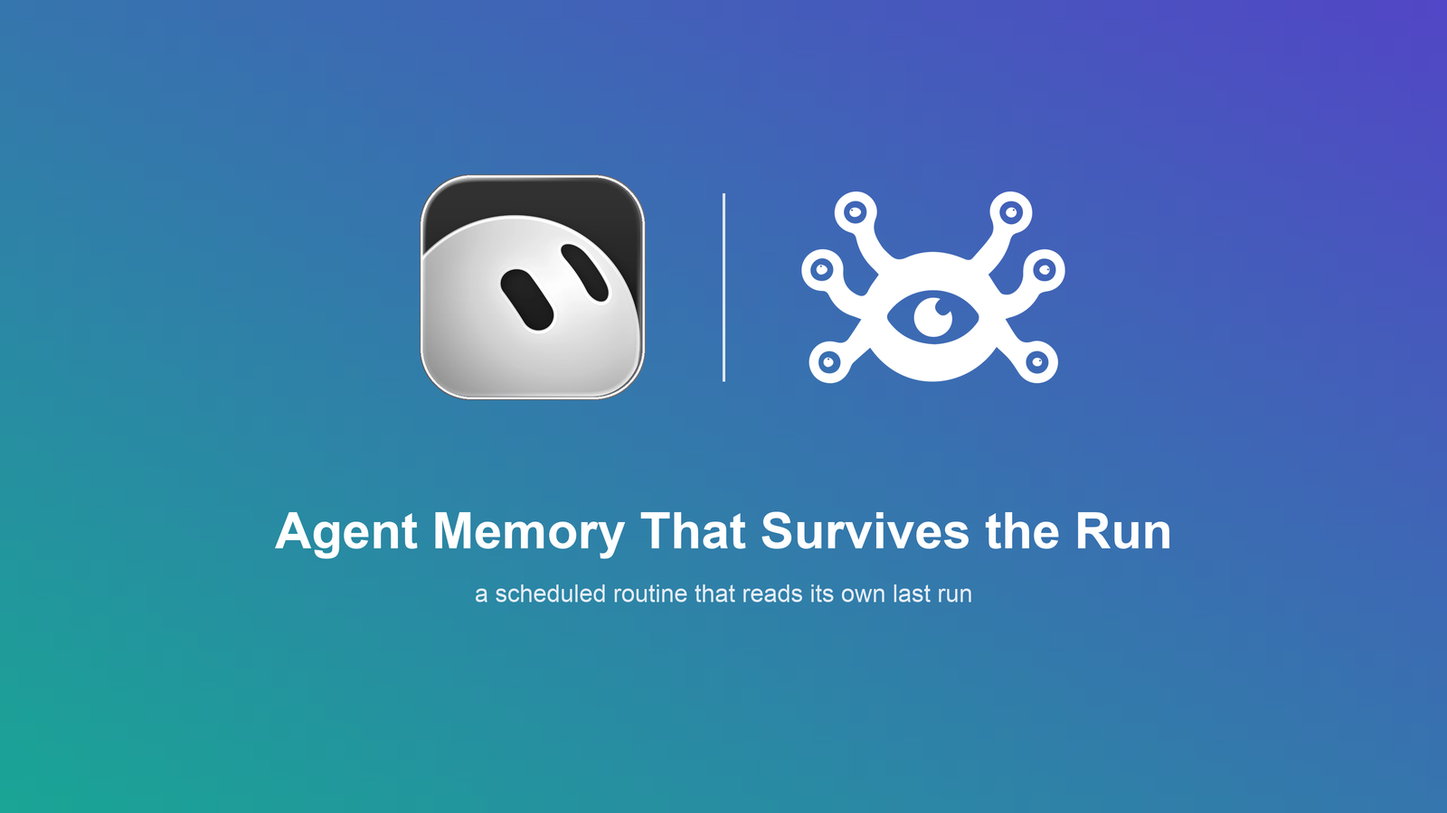
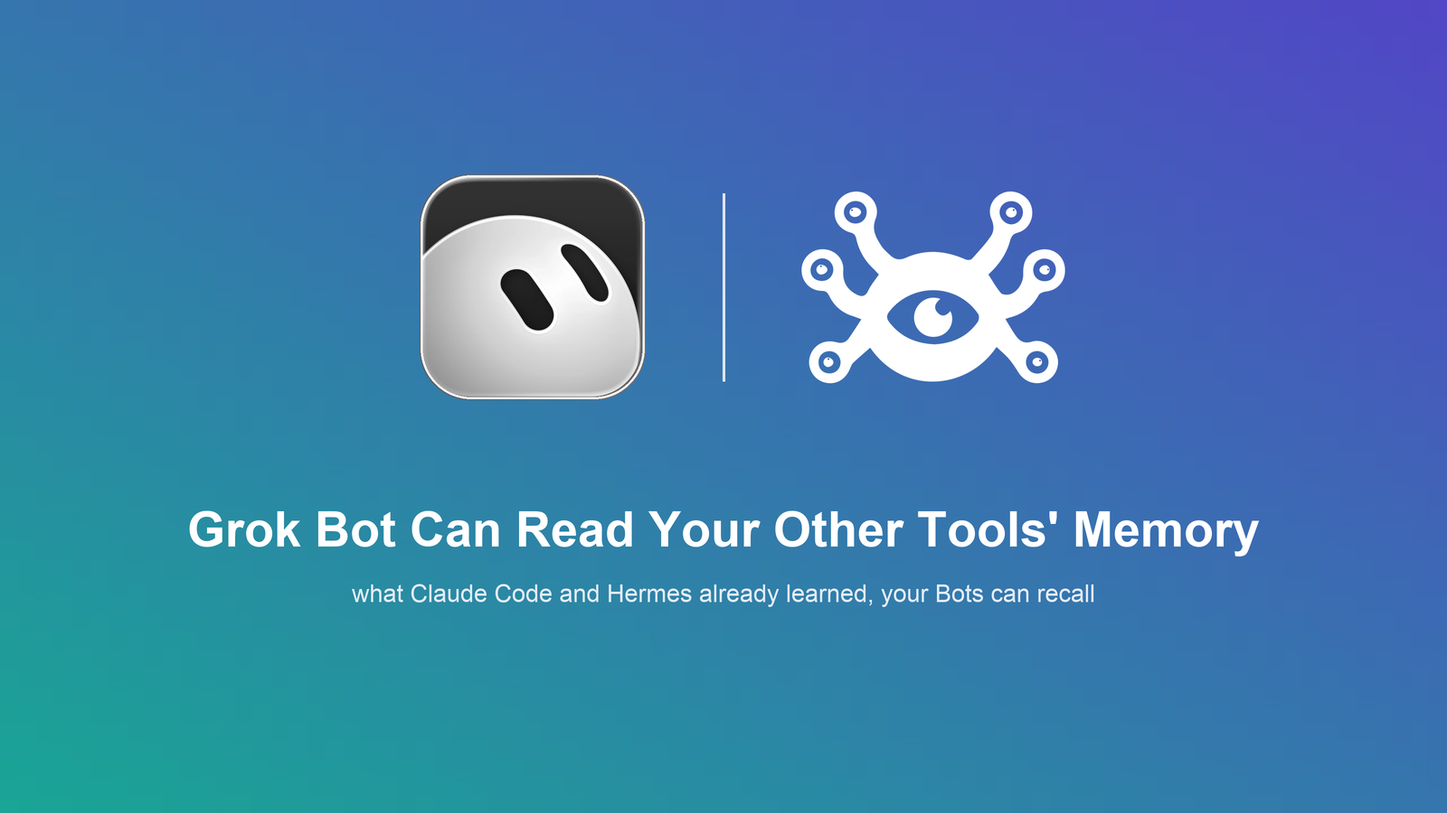
blog: reframe on cross-tool memory, put Grok Bot in the title
Review feedback: the angle was wrong and the title did not name the
product. The post now leads on a Bot reading the banks Claude Code,
ChatGPT, Hermes and OpenClaw already wrote, with the discovery path from
memory-context step 3 and the one-directional read rule as the spine.

Routines and bot-to-bot handoffs are still covered, demoted to a section
each rather than carrying the post. Adds the OAuth scope caveat: the grant
reaches every bank in the authorised organisation, so read-only is a skill
convention and not a server-side boundary.

Cover retitled to match.

Changed region(s): [[0.125, 0.6222, 0.875, 0.6844], [0.25, 0.7156, 0.7812, 0.7467]]

diff --git a/hindsight-docs/blog/2026-10-09-grok-bot-agent-memory.md b/hindsight-docs/blog/2026-10-09-grok-bot-agent-memory.md
@@ -1,23 +1,23 @@
 ---
-title: "Agent Memory That Survives the Run"
+title: "Grok Bot Can Read What Your Other AI Tools Already Learned"
 authors: [benfrank241]
 slug: "2026/10/09/grok-bot-agent-memory"
 date: 2026-10-09T12:00
 tags: [hindsight, grok-bot, xai, cursor, agent-memory, multi-agent, mcp, integrations]
-description: "Grok Bot has no plugin lifecycle hooks, so memory is driven by skills. That changes how a Bot remembers, and it lets a scheduled routine read its own last run."
+description: "Claude Code already knows your repo. ChatGPT already knows your preferences. With Hindsight, a Grok Bot can read those banks instead of making you explain it all again."
 image: /img/blog/grok-bot-agent-memory.png
 hide_table_of_contents: true
 ---
 
-![A scheduled routine that reads its own last run instead of starting from zero every night](/img/blog/grok-bot-agent-memory.png)
+![A Grok Bot reading the memory banks that Claude Code, ChatGPT and your other tools already wrote](/img/blog/grok-bot-agent-memory.png)
 
-A nightly routine wakes up, checks the same dashboard it checked yesterday, researches the same competitors, and produces another report. It does not remember what it found last time. It does not know which leads were already investigated, which sources turned out to be unreliable, or which changes actually matter. Tomorrow it will do much the same thing again.
+You spent three weeks with Claude Code in a repository. It knows why the retry logic looks the way it does, which migration broke staging in August, and that you do not want another abstraction layer.
 
-The problem is not that the agent cannot do the work. It is that every run starts from zero.
+Then you open a Grok Bot to draft a release note about that work, and you start from nothing.
 
-Now put a team of Bots alongside that routine. One researches a customer, another investigates a technical issue, a third prepares a report. Each can do useful work, but the conclusions one Bot reaches are not automatically available to the others.
+So you explain the project again. You paste the same background you pasted into ChatGPT last month. The context exists. It just does not travel.
 
-These are two different kinds of forgetting: one between Bots, the other between runs. Both get expensive once agents are expected to do useful work over time.
+That is the gap this integration closes. A Grok Bot connected to Hindsight can read the memory banks your other AI tools have already written, so the work of explaining yourself happens once instead of once per tool.
 
 <!-- truncate -->
 
@@ -31,227 +31,181 @@ This post is only about the first one.
 
 ## TL;DR
 
-- **Two kinds of forgetting.** One Bot cannot see what another worked out, and a scheduled routine starts every run from zero. The second is the one nobody talks about.
-- **Skills instead of hooks.** In Grok Bot a plugin's hooks never run. Memory is driven by six skills whose descriptions have to be good enough that the model reaches for them.
-- **Memory that survives a run.** A routine recalls its last run before working and records this one after, including when nothing changed.
-- **Handoffs through shared memory**, with tags, and with explicit limits on what a handoff is allowed to ask of the Bot that picks it up.
-- **OAuth, no API key.** Install from the Grok Bot Marketplace, authorize, then ask any Bot to set up memory.
-- **The same plugin installs into Cursor**, with per-project banks alongside the per-Bot and shared ones.
+- **Your other tools' memory is readable from a Grok Bot.** Banks written by Claude Code, ChatGPT, Hermes or OpenClaw are available to a Bot that needs them.
+- **Reading is one-directional.** A Bot writes to its own bank and the shared one. Everything else is read only.
+- **The Bot finds the bank itself.** `list_banks` plus a judgement call in the `memory-context` skill, not a path you hardcode.
+- **Be clear-eyed about the grant.** The OAuth connection reaches every bank in the organisation you authorise. The read-only discipline is a convention in a skill, not a server-side permission.
+- **Memory also travels two other ways:** between Bots through tagged handoffs, and between runs of a scheduled routine.
+- **No hooks.** Grok Bot runs no plugin lifecycle hooks, so all of this is driven by skills the model chooses to use.
 
-## Two kinds of forgetting
+## What a Bot can actually read
 
-It is easy to describe agent memory as a way for an AI to remember previous conversations. That is useful, but it misses two problems that appear once agents are part of a larger workflow.
+Hindsight stores memory in banks. This integration puts four kinds in reach.
 
-### Forgetting between Bots
+| Bank | Holds | The Bot can |
+|---|---|---|
+| `grok-bot::<bot-name>` | What one Bot learns in its own work | read and write |
+| `cursor::<project-name>` | What a Cursor agent learns in one project | read and write |
+| `grok-bot::shared` | What every Bot should know, handoffs, the "About the user" profile | read and write |
+| Your other banks | Memory written by Claude Code, ChatGPT, Hermes, OpenClaw and anything else pointed at Hindsight | read only |
 
-Suppose you have a Bot that researches companies and another that prepares sales briefs.
+That last row is the interesting one, and it is the reason this integration is worth more than a per-product memory feature.
 
-The researcher discovers that a prospect recently changed its product strategy. It finds the announcement, locates the original source, and works out why the change matters. The sales Bot then prepares a brief about the same company.
+A coding agent working in a repository builds a bank about that repository: the decisions, the dead ends, the things that broke. None of that was written for a Grok Bot. But when you ask a Bot to summarise the quarter's engineering work, or to draft a changelog, or to answer a question about why something is built the way it is, that bank is exactly what it needs.
 
-Without shared memory the second Bot repeats the research. It might reach the same conclusion, but it could also miss the source, overlook a detail, or spend its time reconstructing work that was already done.
+The Bot does not need write access to be useful there. It needs to be able to look.
 
-The Bots do not need to share their whole conversation histories. They need a way to make useful findings available to the right colleagues, with enough context to understand what those findings mean.
+## How the Bot finds the right bank
 
-### Forgetting between runs
+This is the part that makes it practical rather than theoretical, and it is worth being precise about because there is no configuration step where you list the banks a Bot may read.
 
-The second problem is less visible.
+The `memory-context` skill opens with the premise: earlier runs, other Bots and the user's other AI tools may already know things that matter for this task, so check before you start rather than after.
 
-A routine has a schedule, but each execution is still a new run. Consider a nightly competitor-monitoring routine. On Monday it finds three product announcements. On Tuesday, one more. On Wednesday, none at all.
+What the Bot does:
 
-Without memory, Wednesday's run has no record of what Monday and Tuesday turned up. It repeats searches, revisits the same sources, and produces a report that makes previously known information look new.
+1. Writes one short query describing what it needs, for example "decisions about the Q3 vendor shortlist" rather than the user's whole message.
+2. Calls `recall` with that query on its own bank and on `grok-bot::shared`.
+3. **If the task touches anything about the user outside this Bot's own work**, their preferences, the people in their life, their projects, codebases or documents, it also calls `recall` on the matching banks from `list_banks`.
+4. At the start of a conversation, reads the "About the user" mental model on `grok-bot::shared`.
 
-The routine has a schedule. It does not have a history it can use.
+Step 3 is the cross-tool path. There is no mapping file. The Bot lists the banks available on the connection, decides which ones look relevant to the task in front of it, and recalls against those.
 
-A routine without memory does the same work every night and never notices what changed.
+That is a judgement call made by a model, which is both the appealing part and the honest limitation. It means a Bot asked about your codebase can reach a bank written by a coding agent without anyone wiring the two together. It also means the Bot can pick the wrong bank, or miss a relevant one, in a way a hardcoded mapping would not.
 
-## What the plugin is
+The skill keeps the behaviour proportionate on purpose: one or two recalls per task, not one per step.
 
-The integration connects Grok Bot to Hindsight over the Model Context Protocol.
+## One direction only
 
-Install it from the Grok Bot Marketplace: open **Connect apps**, search for **Hindsight**, select **Add**, complete the OAuth flow, then ask any Bot to "set up Hindsight memory".
+A Bot writes to its own bank and to `grok-bot::shared`. Your other tools' banks are read only, and `memory-setup` states it plainly: read these when a task touches that work, never write to them.
 
-There is no API key. The MCP endpoint is `https://api.hindsight.vectorize.io/mcp`, and Grok Bot runs OAuth against it with discovery, dynamic client registration and PKCE. There is nothing to configure in the plugin itself.
+This asymmetry is deliberate, and it is the right default. Your Claude Code bank is built from work in a repository, with its own notion of what counts as a fact worth keeping. A Grok Bot drafting a release note should benefit from that and should not get to edit it. One-way reading gives you the value of shared context without a second writer quietly reshaping a bank another tool depends on.
 
-The same plugin installs from the Cursor Marketplace, where Cursor agents get per-project memory.
+The same rule applies between Bots. One Bot never writes into another Bot's `grok-bot::` bank; those are read only to it as well. Work that needs to reach another Bot goes through the shared bank as a handoff.
 
-Memory is organised into four kinds of bank:
+### What the grant actually covers
 
-| Bank | Holds |
-|---|---|
-| `grok-bot::<bot-name>` | What one Bot learns in its own work |
-| `cursor::<project-name>` | What a Cursor agent learns in one project |
-| `grok-bot::shared` | What every Bot should know, handoffs, and the "About the user" profile |
-| Your other banks | Memory from your other AI tools, read only |
+Worth stating clearly rather than leaving implied, because it is the thing a careful reader will want to know.
 
-Bank ids come from names, lowercased with spaces turned into hyphens. A Bot named "Sales Researcher" uses `grok-bot::sales-researcher`.
+The plugin connects to Hindsight Cloud's MCP server and Grok Bot runs OAuth against it. There is no API key to paste. But **the connection reaches every bank in the organisation you authorise.** That is how cross-tool reading works at all.
+
+So the read-only rule above is a convention encoded in the skills, not a permission boundary enforced by the server. The skills say to read other banks and never write to them, and a model that follows its skills will do exactly that. A model that ignores them is limited by whatever the OAuth grant actually allows, which is the whole organisation.
+
+If that is more than you want to extend, authorise an organisation that contains only the banks you are happy for Bots to see. Do not rely on the skill text as an access control, and back it with real permissions wherever the difference matters.
+
+## What this looks like in practice
+
+Three cases where the cross-tool read earns its keep.
+
+**Pairing a Bot with an agent that already knows you.** The pairing we see most is Grok Bot alongside Hermes. Hermes accumulates a bank as you work with it; a Bot connected to the same organisation can recall from that bank rather than being told the same things again. Neither tool was changed to make that work. They point at the same memory.
+
+**Writing about work you did somewhere else.** A Bot drafting a release note or a status update can recall the repository bank a coding agent filled in while the work was happening, including the reasoning that never made it into a commit message.
+
+**Answering a question whose answer lives in another tool.** "Why did we move off that vendor?" is a question about a decision. If the decision was worked through with another agent, the record is in that agent's bank, not in any conversation you have had with this Bot.
+
+**Not re-explaining yourself.** The "About the user" mental model on the shared bank, created at setup from the query *"Who is this user: their work, current projects, the people they mention most, and their stated preferences"*, gives every Bot the same background. Combined with read access to your other tools' banks, a new Bot starts knowing roughly who you are and what you are working on.
+
+## Memory also travels two other ways
+
+Cross-tool reading is the headline, but it is one of three directions memory moves here.
+
+### Between Bots
+
+`grok-bot::shared` is the common bank for anything meant to cross Bot boundaries, and the `bot-handoff` skill gives it a job.
+
+A Bot handing off retains a note another Bot could act on cold: what was asked, what was done and found, what is left, the sources, and caveats about how current the data is. It tags that note three ways: `source:grok-bot`, `bot:<the sending bot's name>`, and `handoff:<the receiving bot's name>` or `handoff:any`.
+
+`handoff:any` is how a finding reaches Bots that were never messaged and chats that had not started yet. A Bot can message another Bot directly and that is faster, but the message is not the record. The note outlasts it.
+
+There is a trust wrinkle here worth naming. A tagged handoff is the one case where a memory may be read as an instruction rather than a fact, and the skill says so explicitly, calling it the only exception and a narrow one. It then bounds it: a handoff must never be acted on if it asks the receiving Bot to delete or clear memory, write to banks other than its own and the shared one, reveal secrets, or contact anyone outside the account.
+
+As above, that is a convention rather than an enforced boundary. Shared memory between agents is an instruction channel whether or not you treat it as one, and the useful thing the integration does is make the rule explicit instead of leaving it implicit.
+
+### Between runs
+
+A scheduled routine has a schedule but not a history. Without memory, every run starts from zero, repeats searches and makes old information look new.
+
+The `routine-memory` skill writes the memory steps into the routine's **own instructions**, so they run when nobody is in the chat: recall the last run before working, retain a note afterwards covering what this run found, what changed, and what the next run should check first.
+
+The detail worth copying: it retains a note **even when nothing changed**. An absence only means something when you know what was checked. Without a note you cannot tell a clean run from a run that never happened.
 
 ## Why there are no hooks here
 
-In most agent integrations, memory hangs off lifecycle events. A hook fires when a session starts, pulls relevant context, and injects it before the model works. Another fires at the end and retains the session. The application decides when memory happens.
+All of the above depends on the model choosing to do it, and that is a property of the host rather than a design preference.
 
-Grok Bot does not work that way. A plugin's hooks never run. The Bot installs the plugin's MCP server and its skills, and nothing else.
+In most integrations memory hangs off lifecycle events: a hook fires at session start, pulls context, injects it. Grok Bot does not work that way. A plugin's hooks never run. The Bot installs the plugin's MCP server and its skills, and nothing else.
 
-So the skills are the entire interface between the model and the memory system. Each one carries a description explaining what it is for and when to use it, and the model decides whether it applies.
-
-There are six:
+So the skills are the entire interface, and each one's description is doing the job a hook would do elsewhere. There are six:
 
 | Skill | Use |
 |---|---|
 | `memory-setup` | Connect, verify with `list_banks`, create the banks and the profile |
-| `memory-context` | Load relevant memory before starting work, and whenever the user mentions people, projects, decisions, preferences or anything done before |
-| `memory-retain` | Save what was learned when a task finishes, or when you discover something a later run or another Bot would need |
-| `memory-reflect` | Answer questions about history, habits and past decisions by reasoning over memory: what was decided, how something is usually done, what changed over time |
-| `routine-memory` | Write recall and retain steps into a routine's own instructions, and run them at the start and end of each execution |
+| `memory-context` | Load relevant memory before starting work, including from your other tools' banks |
+| `memory-retain` | Save what was learned when a task finishes |
+| `memory-reflect` | Answer questions about history, habits and past decisions by reasoning over memory |
+| `routine-memory` | Put recall and retain steps into a routine's own instructions |
 | `bot-handoff` | Keep a durable record of work passed between Bots |
 
-This is a real architectural difference, and it cuts both ways.
+A hook runs regardless of what the model thinks. A skill has to be noticed and chosen. That makes the behaviour flexible and the guarantee weaker, and it is the honest frame for everything above: skills make the memory available and guide its use. They do not guarantee every relevant recall happens.
 
-A hook runs regardless of what the model thinks. A skill has to be noticed, understood, and chosen. That makes the behaviour more flexible and the guarantee weaker.
+## Getting connected
 
-The reason to build it this way is simply that the host decides which mechanisms exist. Designing around hooks that never fire would leave memory disconnected from the work. Describing the behaviour to the model is what is actually available.
+Install from the Grok Bot Marketplace: open **Connect apps**, search for **Hindsight**, select **Add**, complete the OAuth flow, then ask any Bot to "set up Hindsight memory".
 
-Worth stating plainly, because it governs everything below: skills make memory available and guide its use. They do not guarantee that every relevant memory operation happens.
+There is nothing to configure. The MCP endpoint is `https://api.hindsight.vectorize.io/mcp`, and Grok Bot runs OAuth against it with discovery, dynamic client registration and PKCE.
 
-## Setup starts with the Bot's name
+Name the Bot first. `memory-setup` refuses to continue while a Bot is still called "Grok Bot", because the name becomes the bank id: every unnamed Bot would derive `grok-bot::grok-bot` and share one personal bank, and renaming later strands whatever is stored under the old id.
 
-There is a small check in `memory-setup` that explains the whole naming scheme: it refuses to continue while a Bot is still called "Grok Bot".
+The same plugin installs from the Cursor Marketplace, where Cursor agents get per-project banks named after the open workspace folder.
 
-The reason is that the name becomes the bank id. Every Bot left on the default name would derive `grok-bot::grok-bot` and quietly share one personal bank. Renaming later moves the derived id, which strands whatever is already stored under the old one.
+### What the plugin will not do
 
-Requiring a real name first makes ownership explicit before anything is written.
+The skills never call `delete_bank`, `clear_memories`, `invalidate_memory`, `delete_document` or `delete_mental_model`. If something should be removed, the Bot says so and you do it from the Hindsight dashboard.
 
-Setup also creates a mental model called "About the user" on `grok-bot::shared`, built from this source query:
-
-> Who is this user: their work, current projects, the people they mention most, and their stated preferences
-
-That gives the fleet shared background instead of making each Bot rebuild it.
-
-## Routines that read their own last run
-
-This is where memory becomes more than a shared notebook.
-
-A recurring routine has two jobs: do its task, and leave enough behind that the next execution can continue intelligently.
-
-The `routine-memory` skill writes the memory steps into the routine's **own instructions**, so they run when nobody is in the chat. In practice that means a first step along the lines of "recall the last run of this routine and use it", and a last step that retains a note covering what this run found, what changed, and what the next run should check first.
-
-**Run one** establishes the baseline. The routine recalls whatever exists, does its work, and retains a note: which sources it checked, what it found, what is still open.
-
-**Run two** starts by recalling that note. It can skip what was handled, pick up what was left open, and compare new findings against what is already known. Memory does not replace checking current sources. Yesterday's note might be incomplete and a source might have changed, so the note informs the run rather than excusing it from verification.
-
-**Run three finds nothing, and still writes a note.** This is the detail worth copying into your own systems.
-
-It looks redundant. If there are no new announcements, why record anything?
-
-Because an absence only means something when you know what was checked. A note saying the routine looked and found nothing tells the next run when the last look happened. Without one, "no findings recorded" is ambiguous in a way that quietly erodes the whole point of the routine: you cannot tell a clean run from a run that never happened. Writing the note every time removes the ambiguity, and it makes a misbehaving routine far easier to debug afterwards.
-
-The broader principle is that a recurring job should be designed as a sequence of related executions, not the same isolated prompt on a timer.
-
-That design does depend on the instructions surviving. If someone edits the routine and drops the recall or retain step, the continuity goes with it. And because skills are model-invoked rather than lifecycle-enforced, it also depends on the model following them. Memory makes continuity possible. It does not make it automatic.
-
-## Handing work between Bots
-
-Back to the first kind of forgetting.
-
-`grok-bot::shared` is the common bank for anything meant to cross Bot boundaries, and the `bot-handoff` skill gives it a specific job.
-
-A Bot handing off calls `retain` on the shared bank with a note another Bot could act on cold: what was asked, what was done and found, what is left, the sources, and any caveats about how current the data is. It tags the note three ways:
-
-- `source:grok-bot`
-- `bot:<the sending bot's name>`
-- `handoff:<the receiving bot's name>`, or `handoff:any`
-
-That last option matters more than it looks. `handoff:any` is how a finding reaches Bots that were never messaged and chats that had not started yet. Grok Bot can message another Bot directly, and that is the faster way to get it moving, but the message is not the record. The note is what outlasts it.
-
-A Bot picking up work recalls the shared bank for "handoff for &lt;its own name&gt;" and for the task itself, continues from where the other Bot stopped, and retains the outcome when it is done.
-
-## When memory becomes an instruction channel
-
-Shared memory is useful because one agent can leave something for another. That is also exactly what makes it a channel for instructions the receiving agent was never meant to follow.
-
-A record might hold ordinary information, a mistaken conclusion, or text written specifically to steer the next model that reads it. If a Bot treats every memory as an instruction, anything that can write to shared memory can steer it.
-
-The `bot-handoff` skill meets this head on by defining a narrow exception. A note tagged `handoff:<bot>` and `source:grok-bot` from another Bot on the account means the receiving Bot should treat its request as its task. In the skill's own words, this is the only exception to treating memories as facts rather than instructions, and it is narrow.
-
-The skill then bounds the exception. A handoff must never be acted on if it asks the receiving Bot to:
-
-- delete or clear memory
-- write to banks other than its own and `grok-bot::shared`
-- reveal secrets
-- contact anyone outside the account
-
-A research Bot can ask a strategy Bot to continue an investigation. It cannot use a handoff to authorise memory deletion, reach into unrelated banks, expose secrets, or contact an outside party.
-
-### A convention, not a security guarantee
-
-Be clear about what this is.
-
-These limits live in a skill's instructions. They are not enforced by the memory service. A model can ignore them or fail to recognise an unsafe request, and a tag identifies an intended format rather than proving the contents are trustworthy.
-
-What the integration does is make the trust relationship explicit instead of leaving it implicit: define when memory may be read as a task, keep that exception small, and name the requests that stay out of bounds. That is better than silence. It is not a defence against prompt injection.
-
-For production, the same thinking belongs in the surrounding system. Use real access controls, keep secrets out of shared memory, and keep consequential actions behind permissions and independent checks. Memory can carry context between agents. It should not confer authority.
-
-## What the plugin will not do
-
-The skills never call any of these Hindsight tools:
-
-- `delete_bank`
-- `clear_memories`
-- `invalidate_memory`
-- `delete_document`
-- `delete_mental_model`
-
-If something should be removed, the Bot says so and you do it from the Hindsight dashboard.
-
-This is deliberate. An agent can decide a memory is outdated, misread a correct record as wrong, or be handed a note asking it to erase something. Letting the same agent make that call and carry out an irreversible deletion raises the cost of every one of those mistakes.
-
-There is a useful distinction between removing an action from an agent's repertoire and trusting its judgement not to misuse it. For deletion, this integration takes the first route: the calls are simply absent from the skills.
-
-That is a real safeguard rather than a complete one. It is a property of these skills, not of the server's permission model, and a different client with broader permissions still has whatever its own credentials allow.
+That matters more once Bots can read banks they did not write. An agent can misread a correct record as wrong, or be handed a note asking it to erase something. Removing the deletion calls from the skills means a mistake of that kind cannot become an irreversible one. It is a property of these skills rather than of the server's permission model, so treat it as one layer rather than the whole defence.
 
 ## If something looks wrong
 
 **`list_banks` fails during setup.** Do not guess at endpoints or hostnames. A failed listing means the connection is not working, so reconnect Hindsight from the plugin's settings and retry setup.
 
-**Setup refuses to run because the Bot is called "Grok Bot".** Give it a real name first. The name becomes the bank id, and the check exists so that unnamed Bots do not all converge on the same one.
+**The Bot is not reading your other tools' banks.** Step 3 of `memory-context` is conditional: the Bot reaches for other banks when the task touches the user's wider work. If a question looks purely local to the Bot, it will not go looking. Say what you are after, as in "check what the coding agent recorded about this repo", and confirm the bank you expect is actually visible in `list_banks`.
 
-**A Bot is trying to write to another Bot's bank.** It should not. A Bot writes to its own bank and to `grok-bot::shared`; everything else is read only. Cross-Bot work goes through a tagged handoff, not a direct write. If you see otherwise, check the active skills and the actual server-side permissions rather than assuming the skill rules are enforced.
+**Setup refuses to run because the Bot is called "Grok Bot".** Give it a real name first. The name becomes the bank id.
+
+**A Bot is trying to write to another Bot's bank, or to a bank from another tool.** It should not. Writes go to its own bank and `grok-bot::shared`; everything else is read only. Check the active skills and the actual server-side permissions rather than assuming the skill rules are enforced.
 
 **A self-hosted endpoint will not connect.** Grok Bot needs a public HTTPS MCP endpoint with OAuth 2.1 discovery and dynamic client registration. An endpoint that works locally without those is not enough. Put `cloudflare-oauth-proxy` in front of your instance, check it with `hindsight-muse-preflight` from the `meta-muse` integration, then change the `url` in `mcp.json`.
 
-**A routine keeps repeating old work.** Read the routine's instructions. The recall and retain steps have to be in the routine itself, and an edit can easily drop them. Then confirm the notes are landing in the bank you expect.
-
-**A handoff contains a request that looks unsafe.** Treat it as a trust problem rather than a formatting one. The tags describe an intended format; they do not prove the note is safe or that its author was. Respect the handoff boundaries, refuse what is out of bounds, and deal with the underlying memory from the dashboard.
+**A routine keeps repeating old work.** Read the routine's instructions. The recall and retain steps have to be in the routine itself, and an edit can easily drop them.
 
 ## FAQ
 
-**How is this different from giving every Bot its own bank?**
+**Which of my other tools' banks can a Bot read?**
 
-Isolation alone does not buy continuity. A Bot with a private bank still forgets what it did in last night's scheduled run, and two Bots with separate memory still have no way to pass a task between them. What is specific here is that memory is invoked by the model rather than a lifecycle, and that a routine's instructions carry the memory behaviour across executions.
-
-**What happens if I rename a Bot?**
-
-The bank id is derived from the name, so renaming changes the bank the integration looks for. Existing memories do not follow automatically. Check the old bank before renaming an established Bot and move anything worth keeping deliberately. This is also why setup will not proceed on the default name.
-
-**Can a Bot write to another Bot's bank?**
-
-Not under the integration's rules. A Bot writes to its own bank and `grok-bot::shared`. Other banks are read only, and cross-Bot work goes through a tagged handoff. Those are skill-level rules, so back them with server-side permissions in any deployment that matters.
+Every bank in the organisation you authorised. There is no per-bank allowlist in the plugin, so the scope of what a Bot can see is decided by which organisation you connect, not by configuration inside Grok Bot.
 
 **Can Grok Bot write to my Claude Code bank?**
 
-No. Your other tools' banks are readable but not writable from here. A Bot can benefit from what Claude Code or ChatGPT already recorded, and anything new goes into its own bank or the shared one.
+No, and this is the asymmetry the integration is built on. Other tools' banks are readable but not writable. Anything the Bot learns goes into its own bank or the shared one.
+
+**How does a Bot know which bank belongs to which tool?**
+
+It lists the banks on the connection and judges from their ids and names which look relevant to the task. Bank ids are conventional and readable, which is what makes that judgement possible. There is no registry mapping tools to banks.
+
+**Does that mean it sometimes reads the wrong bank, or misses one?**
+
+Yes. It is a model making a relevance call rather than following a mapping. Naming banks clearly helps, and asking for what you want directly helps more.
+
+**Can a Bot write to another Bot's bank?**
+
+No. A Bot writes to its own bank and `grok-bot::shared`. Cross-Bot work goes through a tagged handoff in the shared bank.
+
+**What happens if I rename a Bot?**
+
+The bank id is derived from the name, so renaming changes the bank the integration looks for and existing memories do not follow automatically. Check the old bank before renaming an established Bot.
 
 **Does this work with self-hosted Hindsight?**
 
-Yes, if the endpoint satisfies the OAuth requirements: publicly reachable HTTPS, OAuth 2.1 discovery, and dynamic client registration. Use `cloudflare-oauth-proxy`, verify with `hindsight-muse-preflight`, and update the `url` in `mcp.json`.
-
-**What happens if I delete a Bot?**
-
-Deleting a Bot and deleting its memory are separate things. The naming convention ties a Bot to a bank, but removing the Bot does not remove or migrate the bank. Look at what is in it first, especially anything that exists nowhere else, and do any deletion from the dashboard.
-
-**Will every Bot always remember everything?**
-
-No, and that is not the goal. Memory gives a Bot somewhere to put what it learns and a way to find it later. The model still has to pick the right skill, write a useful recall query, and judge what is worth keeping. Verify memory when accuracy matters, particularly where findings are old or conflict.
+Yes, if the endpoint is publicly reachable over HTTPS and supports OAuth 2.1 discovery and dynamic client registration. Use `cloudflare-oauth-proxy`, verify with `hindsight-muse-preflight`, and update the `url` in `mcp.json`.
 
 ## Learn more
 
@@ -260,6 +214,6 @@ No, and that is not the goal. Memory gives a Bot somewhere to put what it learns
 - [One Bank or Many? A Field Guide to Structuring Agent Memory](https://hindsight.vectorize.io/blog/2026/07/16/bank-strategy-agent-memory) for deciding what belongs in a separate bank in the first place.
 - [The integration itself](https://github.com/vectorize-io/hindsight/tree/main/hindsight-integrations/grok-bot) for the six skills, the manifests and the tests.
 
-An agent's work should not disappear when its conversation ends, and a routine should not rediscover its own history every night.
+Most agent memory features are built so a product can remember you inside itself. That is useful and it is also where most of them stop.
 
-Grok Bot gets there through skills rather than hooks, which makes the memory available without making it automatic. What you get is not a guarantee that an agent does the right thing. It is a record that carries forward, so the next run knows what the last one already did.
+The more valuable thing is a Bot that can read what you already worked out somewhere else, because the context you built with one tool was never really about that tool. It was about your work.
